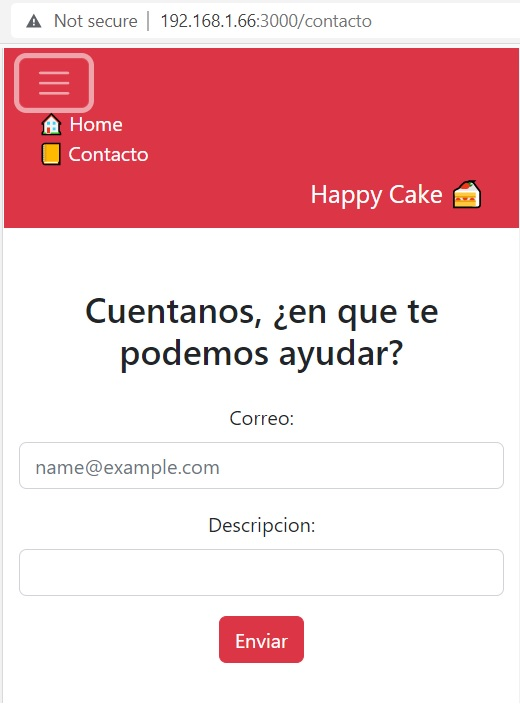
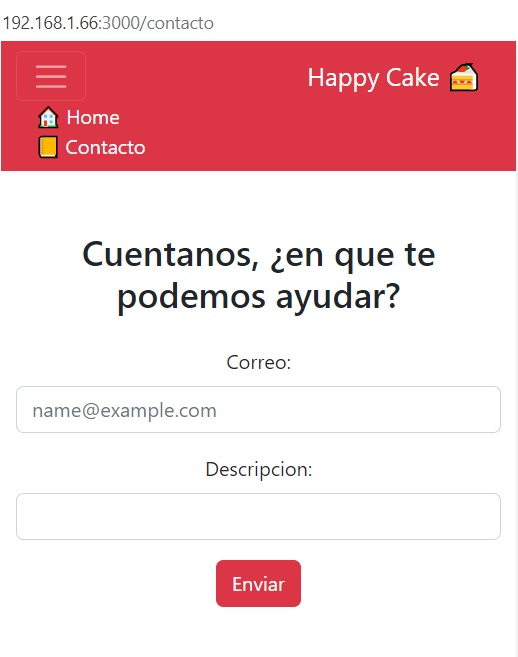
fix: navbar

diff --git a/src/components/Navbar.jsx b/src/components/Navbar.jsx
@@ -6,14 +6,16 @@ export default function Navigation() {
         <>
             <Navbar bg="danger" variant="dark" expand="lg">
                 <Container>
-                    <Navbar.Toggle aria-controls="basic-navbar-nav" />
-                    <Navbar.Collapse id="basic-navbar-nav">
-                        <Nav className="me-auto">
+                <Navbar.Toggle aria-controls="navbar" />
+                
+                <Navbar.Brand className="ms-auto">Happy Cake 🍰</Navbar.Brand>
+                    <Navbar.Collapse id="navbar">
+                        <Nav className="ms-auto">
                             <Link to="/" className="text-white ms-3 text-decoration-none">🏠 Home</Link>
                             <Link to="/contacto" className="text-white ms-3 text-decoration-none">📒 Contacto </Link>
                         </Nav>
                     </Navbar.Collapse>
-                    <Navbar.Brand className="ms-auto">Happy Cake 🍰</Navbar.Brand>
+                    
                 </Container>
             </Navbar>
         </>
